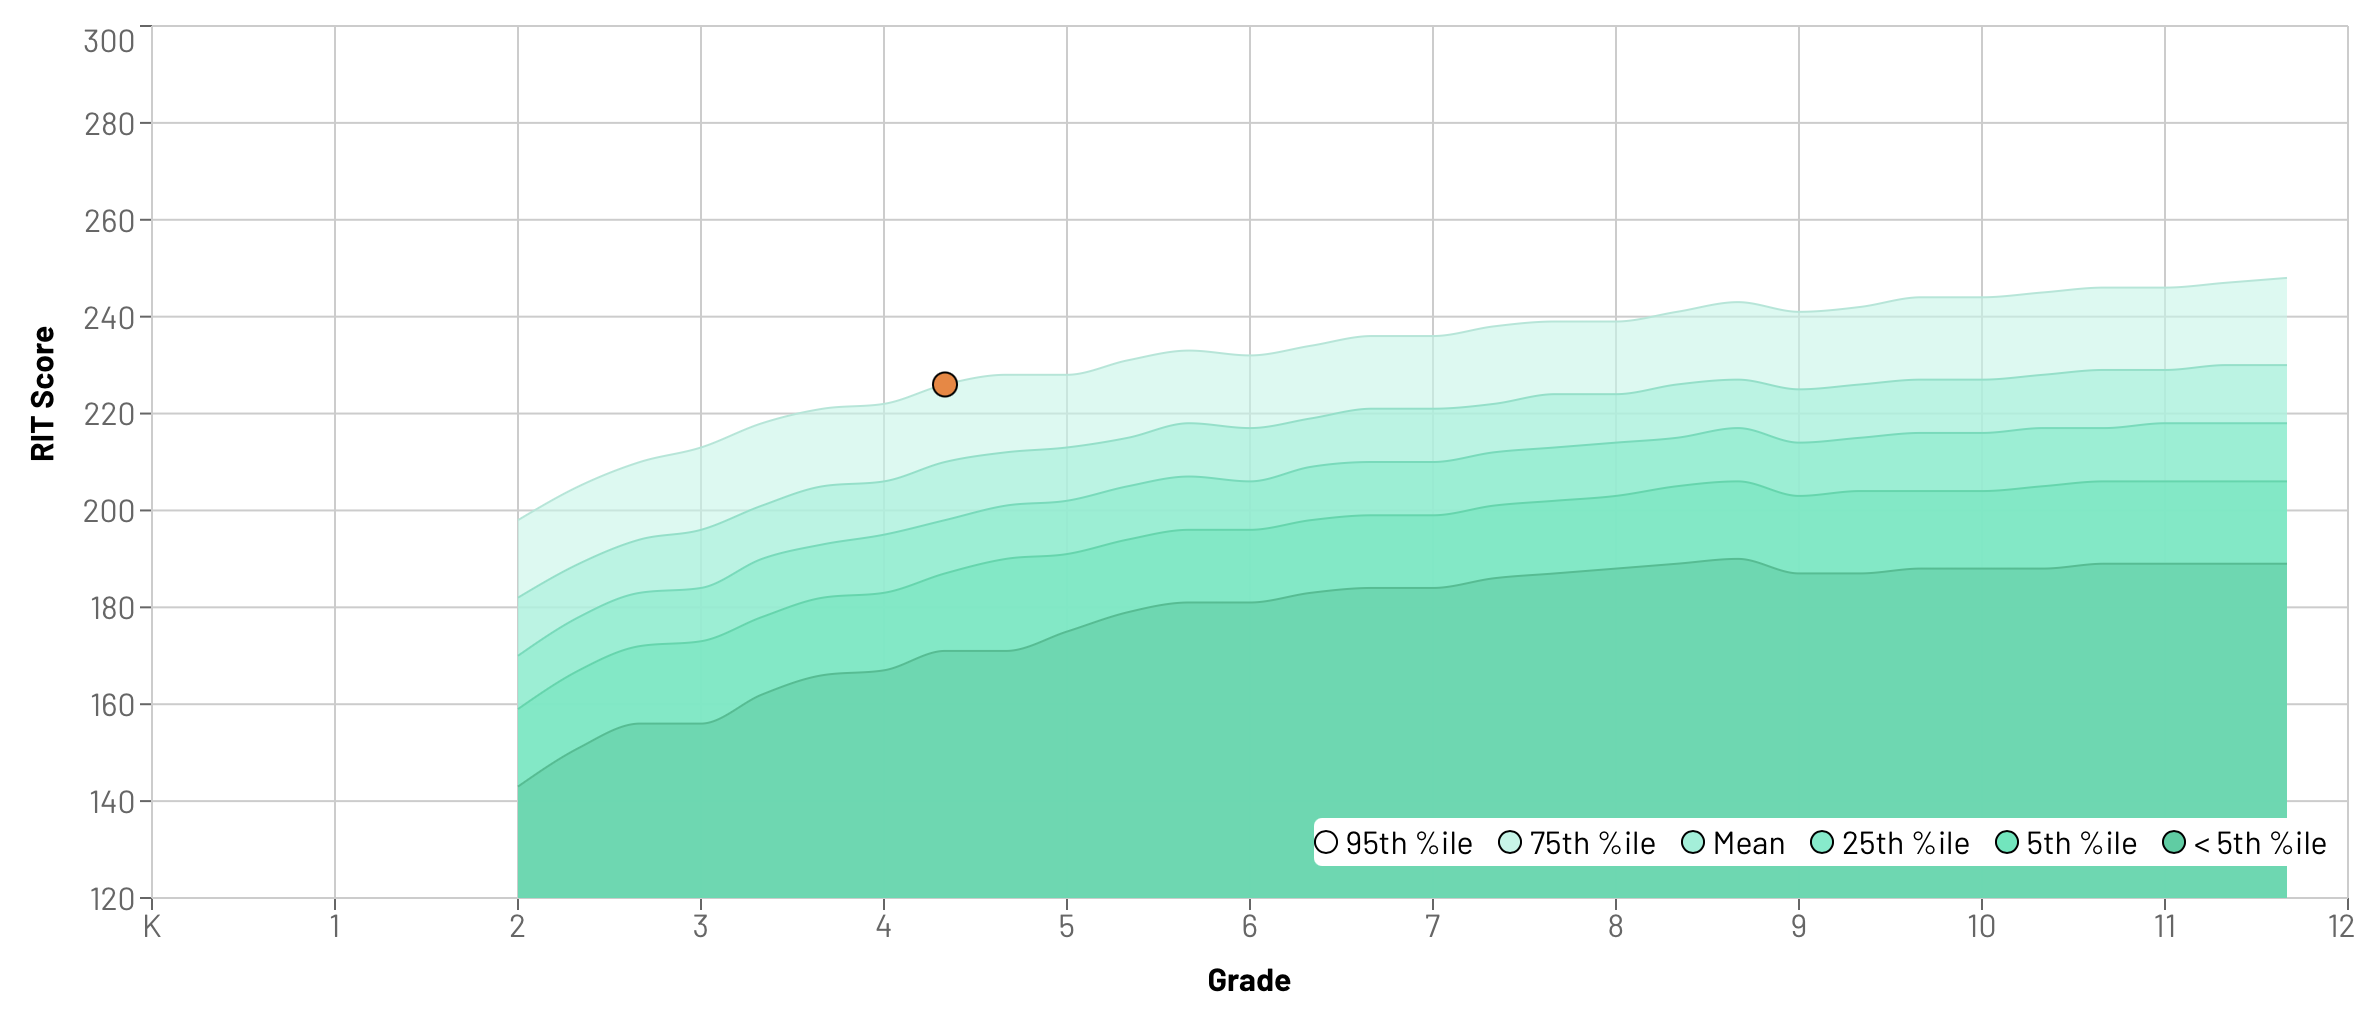
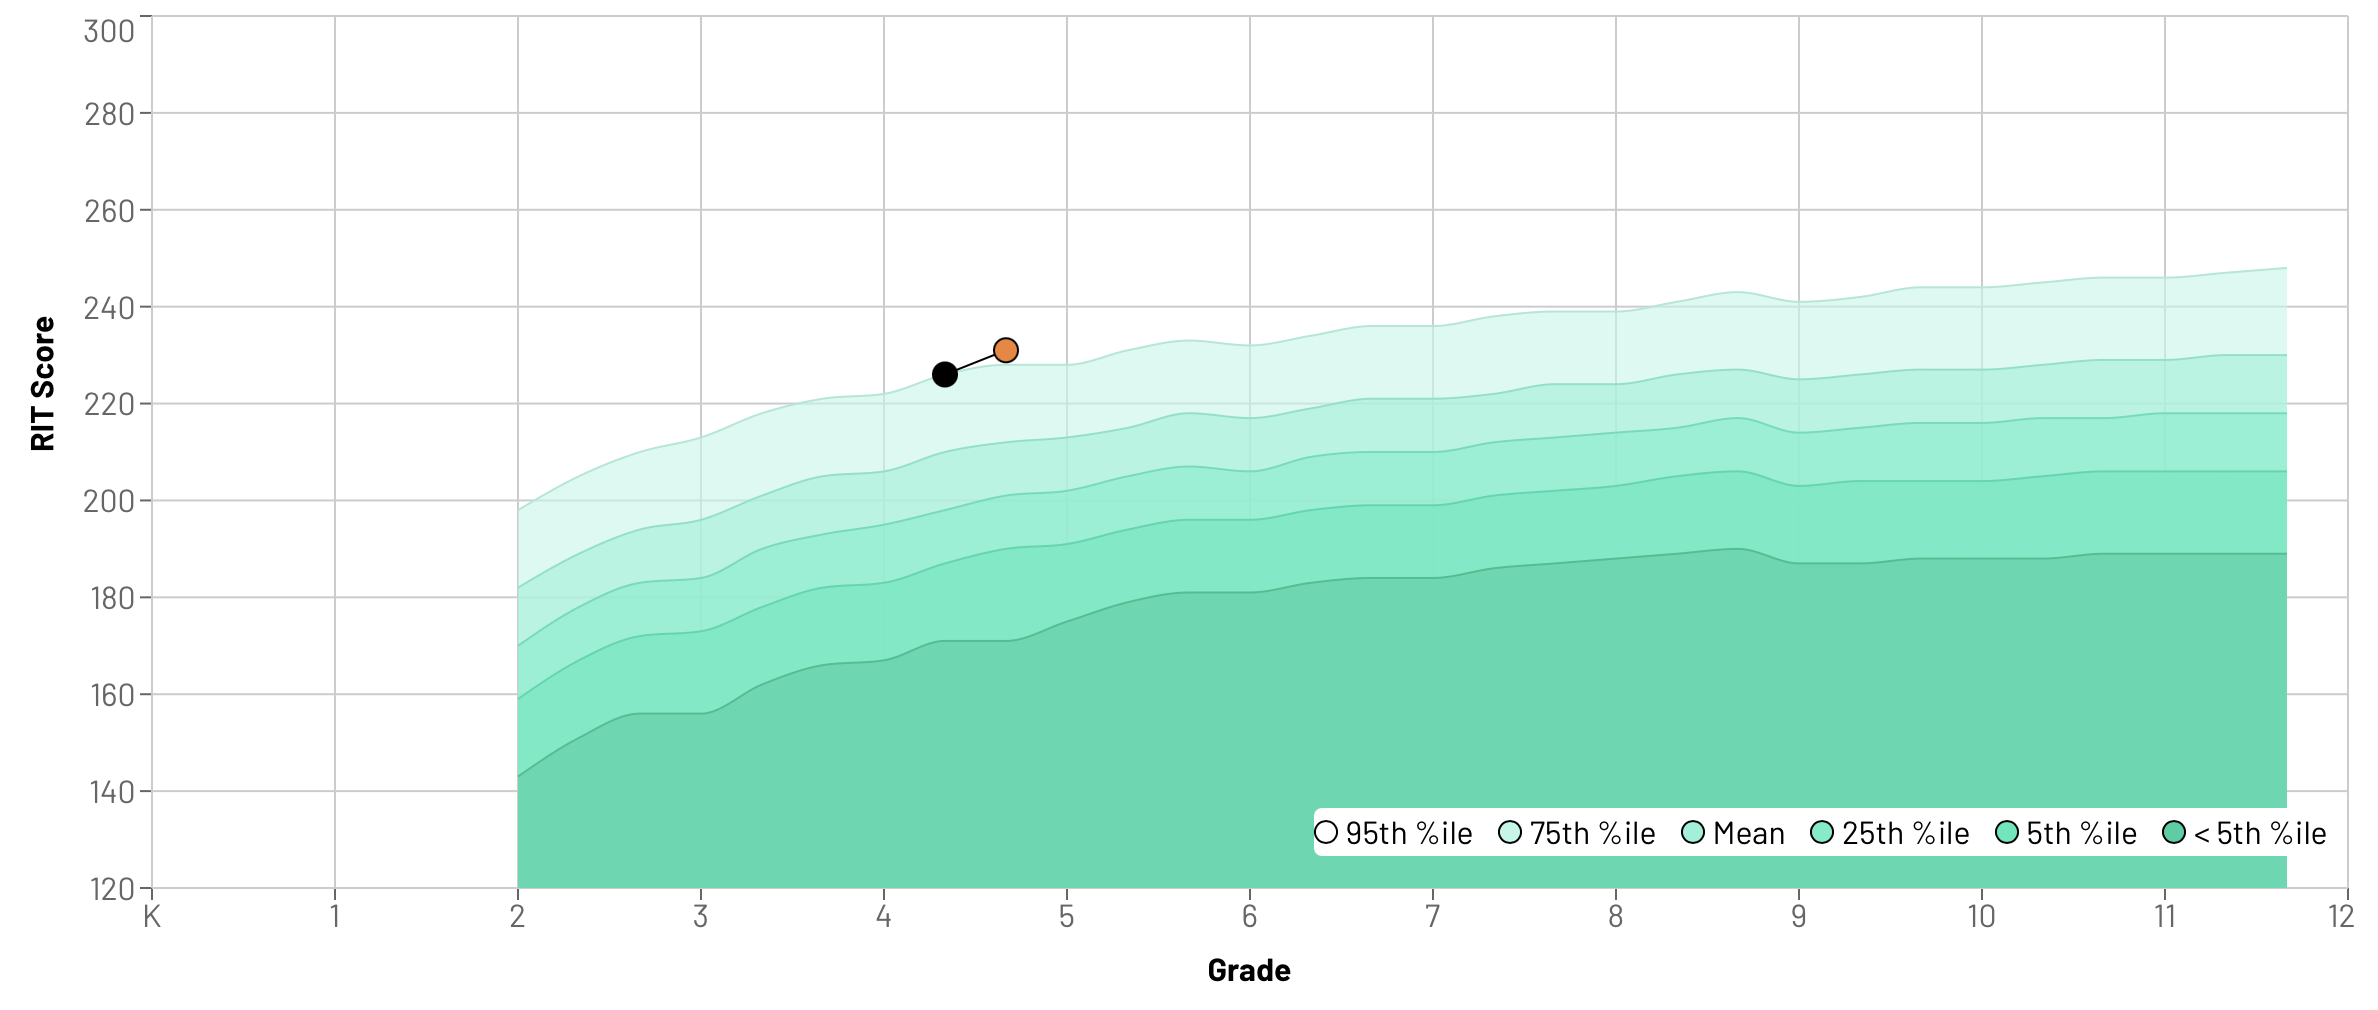
transcripts

diff --git a/students/scarlett/transcripts.html b/students/scarlett/transcripts.html
@@ -88,6 +88,34 @@
             </thead>
             <tbody>
               <tr>
+                <td>May 2026</td>
+                <td>MAP</td>
+                <td>4th Math</td>
+                <td>242</td>
+                <td class="pct">96th</td>
+              </tr>
+              <tr>
+                <td>May 2026</td>
+                <td>MAP</td>
+                <td>4th Reading</td>
+                <td>226</td>
+                <td class="pct">91st</td>
+              </tr>
+              <tr>
+                <td>May 2026</td>
+                <td>MAP</td>
+                <td>4th Language</td>
+                <td>231</td>
+                <td class="pct">97th</td>
+              </tr>
+              <tr>
+                <td>May 2026</td>
+                <td>MAP</td>
+                <td>4th Science</td>
+                <td>224</td>
+                <td class="pct">96th</td>
+              </tr>
+              <tr>
                 <td>Dec 2025</td>
                 <td>MAP</td>
                 <td>4th Reading</td>
